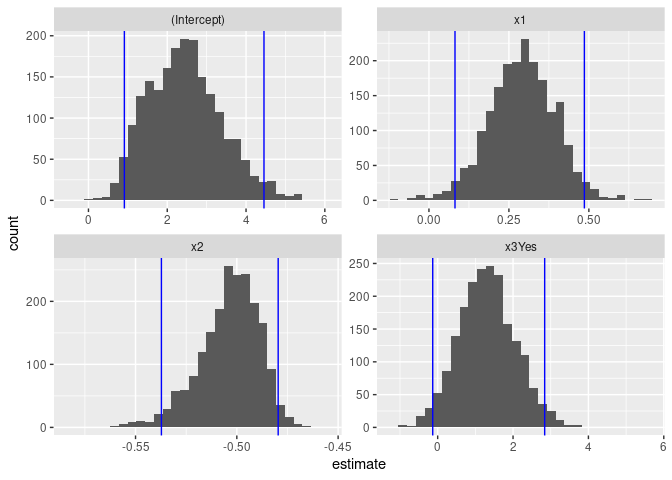
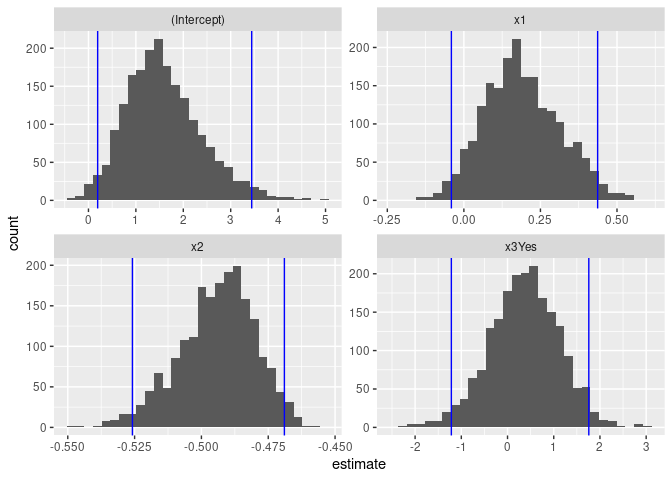
Activity2

diff --git a/day02-bootstrapping/activity09.md b/day02-bootstrapping/activity09.md
@@ -34,7 +34,7 @@ library(tidymodels)
     ## ✖ dplyr::lag()      masks stats::lag()
     ## ✖ yardstick::spec() masks readr::spec()
     ## ✖ recipes::step()   masks stats::step()
-    ## • Use tidymodels_prefer() to resolve common conflicts.
+    ## • Learn how to get started at https://www.tidymodels.org/start/
 
 ## Create the data
 
@@ -82,10 +82,10 @@ tidy(mlr_fit, conf.int = TRUE)
     ## # A tibble: 4 × 7
     ##   term        estimate std.error statistic  p.value conf.low conf.high
     ##   <chr>          <dbl>     <dbl>     <dbl>    <dbl>    <dbl>     <dbl>
-    ## 1 (Intercept)    2.41     0.773       3.12 6.63e- 3   0.772      4.05 
-    ## 2 x1             0.289    0.114       2.54 2.19e- 2   0.0475     0.530
-    ## 3 x2            -0.502    0.0135    -37.1  5.97e-17  -0.531     -0.473
-    ## 4 x3Yes          1.20     0.776       1.55 1.41e- 1  -0.445      2.85
+    ## 1 (Intercept)    1.62     0.707      2.29  3.57e- 2   0.123      3.12 
+    ## 2 x1             0.179    0.110      1.62  1.25e- 1  -0.0552     0.413
+    ## 3 x2            -0.495    0.0128   -38.6   3.20e-17  -0.522     -0.468
+    ## 4 x3Yes          0.407    0.698      0.583 5.68e- 1  -1.07       1.89
 
 ## Bootstrapping
 
@@ -121,28 +121,28 @@ boot_samps$splits[[1]] %>% analysis()
 ```
 
     ## # A tibble: 20 × 4
-    ##         x1    x2 x3          y
-    ##      <dbl> <dbl> <chr>   <dbl>
-    ##  1 -2.41   79.0  No    -37.4  
-    ##  2  0.338  74.8  Yes   -31.9  
-    ##  3 -4.81   45.2  No    -21.9  
-    ##  4  0.0786  1.54 Yes     1.31 
-    ##  5  3.46   53.2  No    -24.8  
-    ##  6 -4.82   64.3  Yes   -32.3  
-    ##  7 -4.62   96.2  Yes   -45.3  
-    ##  8 -0.0644 92.1  No    -43.9  
-    ##  9 -4.62   47.6  No    -23.0  
-    ## 10  4.86   74.7  Yes   -32.2  
-    ## 11  4.86   74.7  Yes   -32.2  
-    ## 12 -3.03    7.88 No      0.984
-    ## 13  4.04   60.4  No    -25.7  
-    ## 14 -4.62   47.6  No    -23.0  
-    ## 15 -2.41   79.0  No    -37.4  
-    ## 16  0.338  74.8  Yes   -31.9  
-    ## 17  0.0786  1.54 Yes     1.31 
-    ## 18  3.46   53.2  No    -24.8  
-    ## 19  0.0786  1.54 Yes     1.31 
-    ## 20  3.46   53.2  No    -24.8
+    ##         x1     x2 x3         y
+    ##      <dbl>  <dbl> <chr>  <dbl>
+    ##  1 -4.97   78.6   Yes   -36.4 
+    ##  2  2.18   64.1   No    -27.7 
+    ##  3 -3.50   61.6   No    -29.3 
+    ##  4  3.52   12.8   Yes    -3.39
+    ##  5 -4.90   76.3   No    -37.5 
+    ##  6 -0.903   1.02  No     -1.18
+    ##  7 -4.91   33.1   Yes   -12.8 
+    ##  8 -0.0686 67.1   Yes   -33.1 
+    ##  9 -2.37   76.0   No    -35.5 
+    ## 10  4.59    0.949 No      3.94
+    ## 11  4.59    0.949 No      3.94
+    ## 12  1.20   36.8   Yes   -15.3 
+    ## 13 -0.160  86.3   No    -40.2 
+    ## 14 -2.37   76.0   No    -35.5 
+    ## 15 -4.97   78.6   Yes   -36.4 
+    ## 16  2.18   64.1   No    -27.7 
+    ## 17  3.52   12.8   Yes    -3.39
+    ## 18 -4.90   76.3   No    -37.5 
+    ## 19  3.52   12.8   Yes    -3.39
+    ## 20 -4.90   76.3   No    -37.5
 
 ``` r
 # Create a function that fits a fixed MLR model to one split dataset
@@ -167,16 +167,16 @@ boots_coefs
     ## # A tibble: 8,000 × 8
     ##    splits         id            model  term     estim…¹ std.e…² stati…³  p.value
     ##    <list>         <chr>         <list> <chr>      <dbl>   <dbl>   <dbl>    <dbl>
-    ##  1 <split [20/8]> Bootstrap0001 <lm>   (Interc…   1.64   0.809    2.02  6.01e- 2
-    ##  2 <split [20/8]> Bootstrap0001 <lm>   x1         0.236  0.101    2.34  3.28e- 2
-    ##  3 <split [20/8]> Bootstrap0001 <lm>   x2        -0.488  0.0117 -41.6   9.69e-18
-    ##  4 <split [20/8]> Bootstrap0001 <lm>   x3Yes      1.09   0.690    1.58  1.34e- 1
-    ##  5 <split [20/6]> Bootstrap0002 <lm>   (Interc…   3.30   1.04     3.16  6.05e- 3
-    ##  6 <split [20/6]> Bootstrap0002 <lm>   x1         0.360  0.114    3.14  6.27e- 3
-    ##  7 <split [20/6]> Bootstrap0002 <lm>   x2        -0.512  0.0146 -35.0   1.54e-16
-    ##  8 <split [20/6]> Bootstrap0002 <lm>   x3Yes      0.538  0.797    0.675 5.09e- 1
-    ##  9 <split [20/6]> Bootstrap0003 <lm>   (Interc…   3.28   0.829    3.95  1.14e- 3
-    ## 10 <split [20/6]> Bootstrap0003 <lm>   x1         0.370  0.121    3.05  7.65e- 3
+    ##  1 <split [20/8]> Bootstrap0001 <lm>   (Interc…  1.84    0.793    2.32  3.39e- 2
+    ##  2 <split [20/8]> Bootstrap0001 <lm>   x1        0.305   0.118    2.59  1.97e- 2
+    ##  3 <split [20/8]> Bootstrap0001 <lm>   x2       -0.486   0.0138 -35.1   1.43e-16
+    ##  4 <split [20/8]> Bootstrap0001 <lm>   x3Yes     0.460   0.628    0.732 4.75e- 1
+    ##  5 <split [20/6]> Bootstrap0002 <lm>   (Interc…  1.19    0.589    2.02  6.08e- 2
+    ##  6 <split [20/6]> Bootstrap0002 <lm>   x1        0.209   0.122    1.71  1.06e- 1
+    ##  7 <split [20/6]> Bootstrap0002 <lm>   x2       -0.496   0.0169 -29.3   2.49e-15
+    ##  8 <split [20/6]> Bootstrap0002 <lm>   x3Yes     0.680   0.885    0.768 4.53e- 1
+    ##  9 <split [20/6]> Bootstrap0003 <lm>   (Interc…  1.48    0.619    2.39  2.93e- 2
+    ## 10 <split [20/6]> Bootstrap0003 <lm>   x1        0.0986  0.100    0.986 3.39e- 1
     ## # … with 7,990 more rows, and abbreviated variable names ¹estimate, ²std.error,
     ## #   ³statistic
 
@@ -188,10 +188,10 @@ boot_int
     ## # A tibble: 4 × 6
     ##   term         .lower .estimate .upper .alpha .method   
     ##   <chr>         <dbl>     <dbl>  <dbl>  <dbl> <chr>     
-    ## 1 (Intercept)  0.911      2.45   4.46    0.05 percentile
-    ## 2 x1           0.0815     0.291  0.486   0.05 percentile
-    ## 3 x2          -0.537     -0.504 -0.480   0.05 percentile
-    ## 4 x3Yes       -0.131      1.31   2.84    0.05 percentile
+    ## 1 (Intercept)  0.194      1.59   3.44    0.05 percentile
+    ## 2 x1          -0.0408     0.189  0.437   0.05 percentile
+    ## 3 x2          -0.526     -0.494 -0.469   0.05 percentile
+    ## 4 x3Yes       -1.22       0.364  1.76    0.05 percentile
 
 ``` r
 ggplot(boots_coefs, aes(x = estimate)) +
